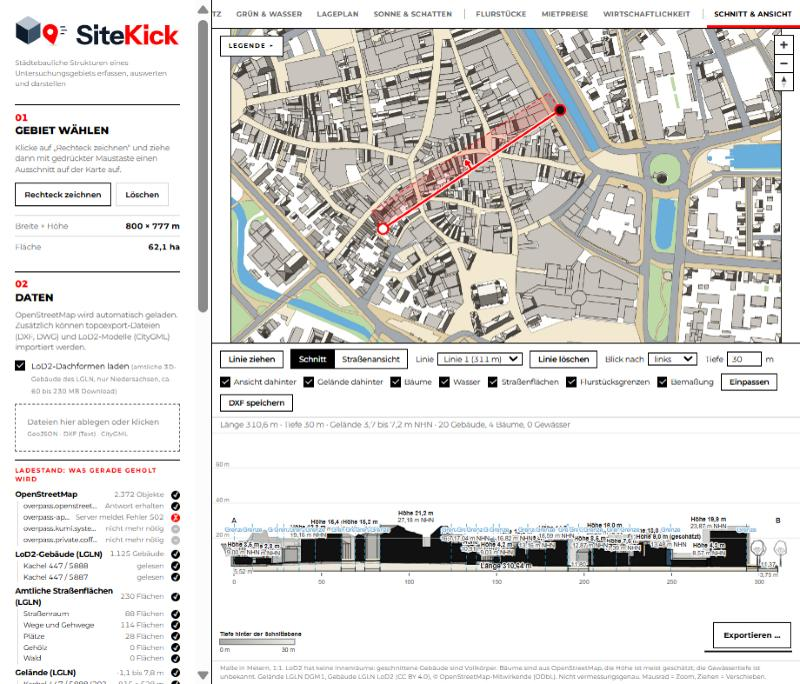
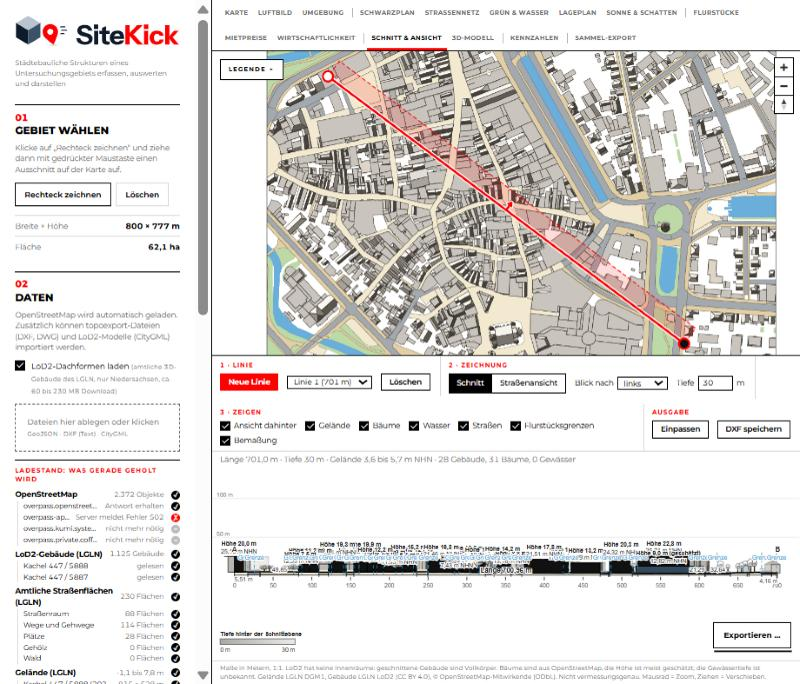
Schnitt & Ansicht: Leiste in Gruppen, Linie per Klick, roter Knopf, Tiefe durch Ziehen; 3D-Haken Schatten

diff --git a/schnitt.js b/schnitt.js
@@ -34,12 +34,13 @@ const sEl = {
   dahinter: document.getElementById("schnitt-dahinter"), fit: document.getElementById("schnitt-fit"), dxf: document.getElementById("schnitt-dxf"),
   baeume: document.getElementById("schnitt-baeume"), wasser: document.getElementById("schnitt-wasser"), gelaende: document.getElementById("schnitt-gelaende")
 };
-const SCHNITT_EBENEN = ["schnitt-andere", "schnitt-tiefe", "schnitt-tiefe-rand", "schnitt-rand", "schnitt-linie", "schnitt-punkte"];
+const SCHNITT_EBENEN = ["schnitt-andere", "schnitt-tiefe", "schnitt-tiefe-rand", "schnitt-rand", "schnitt-linie", "schnitt-punkte", "schnitt-griff"];
 let schnittLinie = null;          // { a: [Ost, Nord], b: [Ost, Nord] } in UTM 32
 let schnittListe = [];            // alle gezogenen Linien: { name, a, b, seite, tiefe }
 let schnittAktiv = -1;            // Index der Linie in schnittListe, die gerade gezeichnet wird
 let schnittZeichnen = false;
 let schnittStart = null;
+let schnittKlickModus = false;    // Startpunkt per Klick gesetzt, wartet auf den zweiten Klick
 let schnittModus = "schnitt";     // "schnitt" oder "ansicht"
 let schnittDaten = null;          // Ergebnis der Rechnung (siehe rechneSchnitt)
 let schnittStand = "";
@@ -65,6 +66,9 @@ function legeSchnittEbenenAn() {
     filter: ["in", ["get", "teil"], ["literal", ["linie", "pfeil"]]], paint: { "line-color": FARBE.flst.auswahl, "line-width": 3.5 } }, "gebiet-flaeche");
   map.addLayer({ id: "schnitt-punkte", type: "circle", source: "schnitt", layout: unsichtbar, filter: ["==", ["get", "teil"], "ende"],
     paint: { "circle-radius": 7, "circle-color": ["case", ["==", ["get", "ende"], "a"], "#ffffff", "#111111"], "circle-stroke-color": FARBE.flst.auswahl, "circle-stroke-width": 3 } }, "gebiet-flaeche");
+  // Griff in der Mitte der gestrichelten Kante: daran ziehen = Tiefe ändern
+  map.addLayer({ id: "schnitt-griff", type: "circle", source: "schnitt", layout: unsichtbar, filter: ["==", ["get", "teil"], "griff"],
+    paint: { "circle-radius": 8, "circle-color": "#ffffff", "circle-stroke-color": FARBE.flst.auswahl, "circle-stroke-width": 3 } }, "gebiet-flaeche");
 }
 
 // Koordinaten der Linie: s = Abstand entlang der Linie, d = Abstand quer dazu (positiv in Blickrichtung)
@@ -95,6 +99,7 @@ function setzeSchnittLinieKarte(linie) {
     feat("pfeil", { type: "LineString", coordinates: [ll(mx, my), ll(tx, ty)] }),
     feat("pfeil", { type: "LineString", coordinates: kopf(2.8) }),
     feat("pfeil", { type: "LineString", coordinates: kopf(-2.8) }),
+    feat("griff", { type: "Point", coordinates: bandPunkt([mx, my]) }),
     feat("ende", { type: "Point", coordinates: ll(...linie.a) }, { ende: "a" }),
     feat("ende", { type: "Point", coordinates: ll(...linie.b) }, { ende: "b" }),
     ...schnittListe.filter((l, i) => i !== schnittAktiv).map((l) => feat("andere", { type: "LineString", coordinates: [ll(...l.a), ll(...l.b)] }))
@@ -109,29 +114,40 @@ function schnittKlemmen(lngLat) {
 
 function schnittModusZeichnen(an) {
   schnittZeichnen = an;
-  schnittStart = null;
+  schnittStart = null; schnittKlickModus = false;
   document.body.classList.toggle("is-drawing", an);
   if (an) { map.dragPan.disable(); map.boxZoom.disable(); } else { map.dragPan.enable(); map.boxZoom.enable(); }
   sEl.neu.classList.toggle("is-active", an);
-  sEl.neu.textContent = an ? "Abbrechen (Esc)" : schnittLinie ? "Neue Linie ziehen" : "Linie ziehen";
-  if (an) schnittHinweisSetzen("Drücke auf der Karte die Maustaste, ziehe die Linie und lass los. Sie liegt im gewählten Rechteck.");
+  sEl.neu.textContent = an ? "Abbrechen (Esc)" : schnittLinie ? "Neue Linie" : "Linie ziehen";
+  if (!an && /^(Klicke auf der Karte den|Startpunkt gesetzt)/.test(schnittHinweis.textContent)) schnittHinweisSetzen("");
+  if (an) schnittHinweisSetzen("Klicke auf der Karte den Startpunkt, dann den Endpunkt. Ziehen mit gedrückter Maustaste geht auch. Esc bricht ab.");
 }
 
 function schnittBeginne(e) {
   if (!schnittZeichnen || aktuelleAnsicht !== "schnitt") return;
   e.preventDefault();
+  if (schnittKlickModus && schnittStart) { schnittFertig(utmWandler.forward(schnittKlemmen(e.lngLat))); return; }   // zweiter Klick = Endpunkt
   schnittStart = utmWandler.forward(schnittKlemmen(e.lngLat));
 }
 function schnittZiehe(e) {
   if (!schnittZeichnen || !schnittStart) return;
   setzeSchnittLinieKarte({ a: schnittStart, b: utmWandler.forward(schnittKlemmen(e.lngLat)) });
 }
+// Maustaste loslassen: weit gezogen = fertig, nur geklickt = Startpunkt bleibt, der nächste Klick setzt den Endpunkt
 function schnittBeende(e) {
-  if (!schnittZeichnen || !schnittStart) return;
+  if (!schnittZeichnen || !schnittStart || schnittKlickModus) return;
   const ende = utmWandler.forward(schnittKlemmen(e.lngLat));
+  if (Math.hypot(ende[0] - schnittStart[0], ende[1] - schnittStart[1]) < 5) {
+    schnittKlickModus = true;
+    schnittHinweisSetzen("Startpunkt gesetzt. Klicke jetzt den Endpunkt der Linie. Esc bricht ab.");
+    return;
+  }
+  schnittFertig(ende);
+}
+function schnittFertig(ende) {
   const a = schnittStart;
-  schnittStart = null;
-  if (Math.hypot(ende[0] - a[0], ende[1] - a[1]) < 5) { setzeSchnittLinieKarte(schnittLinie); return; }   // zu kurz: ignorieren
+  schnittStart = null; schnittKlickModus = false;
+  if (!a || Math.hypot(ende[0] - a[0], ende[1] - a[1]) < 5) { setzeSchnittLinieKarte(schnittLinie); return; }   // zu kurz: ignorieren
   schnittLinie = { a, b: ende };
   schnittListe.push({ name: `Linie ${schnittListe.length + 1}`, a, b: ende, seite: Number(sEl.seite.value), tiefe: Number(sEl.tiefe.value) || 30 });
   schnittAktiv = schnittListe.length - 1;
@@ -149,6 +165,55 @@ map.on("touchend", schnittBeende);
 document.addEventListener("keydown", (e) => {
   if (e.key === "Escape" && schnittZeichnen) { schnittModusZeichnen(false); setzeSchnittLinieKarte(schnittLinie); }
 });
+
+// Tiefe durch Ziehen an der gestrichelten Kante: Griff oder Kante anfassen, die Kante folgt der Maus
+let schnittTiefeZiehen = false;
+let schnittCursorGesetzt = false;
+function schnittKanteGetroffen(punkt) {   // punkt = Bildschirmpunkt { x, y }
+  if (!schnittLinie || aktuelleAnsicht !== "schnitt" || schnittZeichnen) return false;
+  const K = schnittK(schnittLinie, Number(sEl.seite.value));
+  const tiefe = Math.max(5, Math.min(300, Number(sEl.tiefe.value) || 30));
+  const vx = K.nx * K.seite, vy = K.ny * K.seite;
+  const bs = (pt) => map.project(utmWandler.inverse([pt[0] + vx * tiefe, pt[1] + vy * tiefe]));
+  const p0 = bs(schnittLinie.a), p1 = bs(schnittLinie.b);
+  const dx = p1.x - p0.x, dy = p1.y - p0.y, l2 = dx * dx + dy * dy || 1;
+  const t = Math.max(0, Math.min(1, ((punkt.x - p0.x) * dx + (punkt.y - p0.y) * dy) / l2));
+  return Math.hypot(punkt.x - (p0.x + t * dx), punkt.y - (p0.y + t * dy)) <= 10;
+}
+function schnittTiefeBeginne(e) {
+  if (!schnittKanteGetroffen(e.point)) return;
+  e.preventDefault();
+  schnittTiefeZiehen = true;
+  map.dragPan.disable();
+}
+function schnittTiefeZiehe(e) {
+  if (!schnittTiefeZiehen) {
+    if (aktuelleAnsicht === "schnitt" && e.point) {
+      const treffer = schnittKanteGetroffen(e.point);
+      if (treffer) { map.getCanvas().style.cursor = "ns-resize"; schnittCursorGesetzt = true; }
+      else if (schnittCursorGesetzt) { map.getCanvas().style.cursor = ""; schnittCursorGesetzt = false; }
+    }
+    return;
+  }
+  const K = schnittK(schnittLinie, Number(sEl.seite.value));
+  const m = utmWandler.forward([e.lngLat.lng, e.lngLat.lat]);
+  const d = (m[0] - schnittLinie.a[0]) * K.nx * K.seite + (m[1] - schnittLinie.a[1]) * K.ny * K.seite;   // Abstand quer zur Linie in Blickrichtung
+  const tiefe = Math.max(5, Math.min(300, Math.round(d)));
+  sEl.tiefe.value = String(tiefe);
+  setzeSchnittLinieKarte(schnittLinie);
+}
+function schnittTiefeEnde() {
+  if (!schnittTiefeZiehen) return;
+  schnittTiefeZiehen = false;
+  map.dragPan.enable();
+  sEl.tiefe.dispatchEvent(new Event("change"));   // speichert die Tiefe an der Linie und rechnet neu
+}
+map.on("mousedown", schnittTiefeBeginne);
+map.on("touchstart", (e) => { if (e.points.length === 1) schnittTiefeBeginne(e); });
+map.on("mousemove", schnittTiefeZiehe);
+map.on("touchmove", schnittTiefeZiehe);
+window.addEventListener("mouseup", schnittTiefeEnde);
+window.addEventListener("touchend", schnittTiefeEnde);
 
 // ---------- 2. Gebäude als 3D-Flächen sammeln ----------
 // Jedes Gebäude: { art, boden, flaechen: [Ring ...] (Dächer), waende: [Ring ...] }, Ring = Liste [x, y, z] (UTM, Höhe über NHN), nicht geschlossen
@@ -841,7 +906,7 @@ function schnittNeuRechnen() {
   if (!schnittDaten) {
     schnittSvg.innerHTML = "";
     schnittInfo.textContent = "";
-    schnittHinweisSetzen(datenVorhanden ? "Ziehe eine Linie auf der Karte, dann entsteht hier die Zeichnung." : "Klicke zuerst links auf „Analysieren“, dann kannst du eine Linie ziehen.");
+    schnittHinweisSetzen(datenVorhanden ? "Klicke auf der Karte Start- und Endpunkt, dann entsteht hier die Zeichnung." : "Klicke zuerst links auf „Analysieren“, dann kannst du eine Linie ziehen.");
     return;
   }
   const D = schnittDaten;
@@ -869,7 +934,8 @@ function aktualisiereSchnitt() {
   if (!aktiv) { if (schnittZeichnen) schnittModusZeichnen(false); return; }
   sEl.neu.disabled = !datenVorhanden;
   if (!schnittLinie) {
-    schnittHinweisSetzen(datenVorhanden ? "Klicke auf „Linie ziehen“ und ziehe die Linie über die Karte (z. B. quer durch eine Straße)." : "Klicke zuerst links auf „Analysieren“, dann kannst du eine Linie ziehen.");
+    if (datenVorhanden) { if (!schnittZeichnen) schnittModusZeichnen(true); }   // gleich zeichnen: Start- und Endpunkt anklicken
+    else schnittHinweisSetzen("Klicke zuerst links auf „Analysieren“, dann kannst du eine Linie ziehen.");
     return;
   }
   const stand = [lod2Gebaeude.length, osmFeatures.length, alkisFlaechen.length, flurstuecke.length, gelaende ? gelaende.min : -1].join("|");
@@ -896,7 +962,7 @@ document.getElementById("schnitt-liste").addEventListener("change", (e) => {
 document.getElementById("schnitt-loeschen").addEventListener("click", () => {
   if (schnittAktiv < 0) return;
   schnittListe.splice(schnittAktiv, 1);
-  if (!schnittListe.length) { schnittAktiv = -1; schnittLinie = null; schnittDaten = null; schnittSvg.innerHTML = ""; schnittInfo.textContent = ""; setzeSchnittLinieKarte(null); schnittListeAnzeigen(); sEl.neu.textContent = "Linie ziehen"; schnittHinweisSetzen("Ziehe eine Linie auf der Karte, dann entsteht hier die Zeichnung."); return; }
+  if (!schnittListe.length) { schnittAktiv = -1; schnittLinie = null; schnittDaten = null; schnittSvg.innerHTML = ""; schnittInfo.textContent = ""; setzeSchnittLinieKarte(null); schnittListeAnzeigen(); sEl.neu.textContent = "Linie ziehen"; schnittHinweisSetzen(""); schnittModusZeichnen(true); return; }
   schnittAktiv = Math.min(schnittAktiv, schnittListe.length - 1);
   const l = schnittListe[schnittAktiv];
   schnittLinie = { a: l.a, b: l.b };

diff --git a/index.html b/index.html
@@ -27,7 +27,7 @@
   <!-- Rechnet zwischen Längen/Breitengrad und den UTM-Koordinaten der amtlichen Daten um -->
   <script src="https://cdn.jsdelivr.net/npm/proj4@2.12.1/dist/proj4.js"></script>
 
-  <link rel="stylesheet" href="style.css?v=7315b">
+  <link rel="stylesheet" href="style.css?v=181118d">
 </head>
 <body>
   <div class="app">
@@ -185,28 +185,48 @@
           <!-- Nur im Reiter "Schnitt": Linie ziehen, Zeichnung von Schnitt oder Straßenansicht, DXF-Export (siehe schnitt.js) -->
           <div class="schnitt-panel" id="schnitt-panel" hidden>
             <div class="schnitt-leiste">
-              <button type="button" class="btn schnitt-neu" id="schnitt-linie-neu">Linie ziehen</button>
-              <span class="schnitt-umschalter" id="schnitt-umschalter">
-                <button type="button" data-modus="schnitt" class="is-active">Schnitt</button><button type="button" data-modus="ansicht">Straßenansicht</button>
-              </span>
-              <label id="schnitt-liste-feld" hidden>Linie <select id="schnitt-liste"></select></label>
-              <button type="button" class="btn" id="schnitt-loeschen" hidden>Linie löschen</button>
-              <label>Blick nach <select id="schnitt-seite"><option value="1">links</option><option value="-1">rechts</option></select></label>
-              <label>Tiefe <input type="number" id="schnitt-tiefe" value="30" min="5" max="300" step="5"> m</label>
-              <label><input type="checkbox" id="schnitt-dahinter" checked> Ansicht dahinter</label>
-              <label><input type="checkbox" id="schnitt-gelaende" checked> Gelände dahinter</label>
-              <label><input type="checkbox" id="schnitt-baeume" checked> Bäume</label>
-              <label><input type="checkbox" id="schnitt-wasser" checked> Wasser</label>
-              <label><input type="checkbox" id="schnitt-strasse" checked> Straßenflächen</label>
-              <label><input type="checkbox" id="schnitt-grenzen" checked> Flurstücksgrenzen</label>
-              <label><input type="checkbox" id="schnitt-mass" checked> Bemaßung</label>
-              <button type="button" class="btn" id="schnitt-fit">Einpassen</button>
-              <button type="button" class="btn" id="schnitt-dxf">DXF speichern</button>
+              <div class="sg">
+                <span class="sg-t">1 · Linie</span>
+                <div class="sg-i">
+                  <button type="button" class="btn schnitt-neu" id="schnitt-linie-neu">Linie ziehen</button>
+                  <label id="schnitt-liste-feld" hidden><select id="schnitt-liste" aria-label="Linie wählen"></select></label>
+                  <button type="button" class="btn" id="schnitt-loeschen" hidden>Löschen</button>
+                </div>
+              </div>
+              <div class="sg">
+                <span class="sg-t">2 · Zeichnung</span>
+                <div class="sg-i">
+                  <span class="schnitt-umschalter" id="schnitt-umschalter">
+                    <button type="button" data-modus="schnitt" class="is-active">Schnitt</button><button type="button" data-modus="ansicht">Straßenansicht</button>
+                  </span>
+                  <label>Blick nach <select id="schnitt-seite"><option value="1">links</option><option value="-1">rechts</option></select></label>
+                  <label>Tiefe <input type="number" id="schnitt-tiefe" value="30" min="5" max="300" step="5"> m</label>
+                </div>
+              </div>
+              <div class="sg sg-breit">
+                <span class="sg-t">3 · Zeigen</span>
+                <div class="sg-i">
+                  <label><input type="checkbox" id="schnitt-dahinter" checked> Ansicht dahinter</label>
+                  <label><input type="checkbox" id="schnitt-gelaende" checked> Gelände</label>
+                  <label><input type="checkbox" id="schnitt-baeume" checked> Bäume</label>
+                  <label><input type="checkbox" id="schnitt-wasser" checked> Wasser</label>
+                  <label><input type="checkbox" id="schnitt-strasse" checked> Straßen</label>
+                  <label><input type="checkbox" id="schnitt-grenzen" checked> Flurstücksgrenzen</label>
+                  <label><input type="checkbox" id="schnitt-mass" checked> Bemaßung</label>
+                </div>
+              </div>
+              <div class="sg sg-rechts">
+                <span class="sg-t">Ausgabe</span>
+                <div class="sg-i">
+                  <button type="button" class="btn" id="schnitt-fit">Einpassen</button>
+                  <button type="button" class="btn" id="schnitt-dxf">DXF speichern</button>
+                </div>
+              </div>
             </div>
             <div class="schnitt-info" id="schnitt-info"></div>
             <div class="schnitt-hinweis" id="schnitt-hinweis"></div>
             <svg id="schnitt-svg" xmlns="http://www.w3.org/2000/svg" preserveAspectRatio="xMidYMid meet" role="img" aria-label="Schnitt oder Straßenansicht"></svg>
-            <p class="schnitt-klein">Maße in Metern, 1:1. LoD2 hat keine Innenräume: geschnittene Gebäude sind Vollkörper. Bäume sind aus OpenStreetMap, die Höhe ist meist geschätzt; die Gewässertiefe ist unbekannt. Gelände LGLN DGM1, Gebäude LGLN LoD2 (CC BY 4.0), © OpenStreetMap-Mitwirkende (ODbL). Nicht vermessungsgenau. Mausrad = Zoom, Ziehen = Verschieben.</p>
+            <p class="schnitt-klein">Maße in Metern, 1:1. LoD2 hat keine Innenräume: geschnittene Gebäude sind Vollkörper. Bäume sind aus OpenStreetMap, die Höhe ist meist geschätzt; die Gewässertiefe ist unbekannt. Gelände LGLN DGM1, Gebäude LGLN LoD2 (CC BY 4.0), © OpenStreetMap-Mitwirkende (ODbL). Nicht vermessungsgenau. Mausrad = Zoom, Ziehen = Verschieben. Tiefe: an der gestrichelten Kante auf der Karte ziehen.</p>
           </div>
           <!-- Nur im Reiter "Luftbild": Regler und Überlagerungen (siehe luftbild.js) -->
           <div class="flst-info" id="luft-info" hidden>
@@ -273,7 +293,7 @@
             <button class="btn" id="d3-reset" type="button">Ansicht zurücksetzen</button>
             <button class="btn" id="d3-oben" type="button">Draufsicht</button>
             <label class="d3-check"><input type="checkbox" id="d3-baeume" checked> Bäume</label>
-            <label class="d3-check" title="Schatten nach Datum und Uhrzeit, gleiche Einstellung wie im Reiter Sonne &amp; Schatten"><input type="checkbox" id="d3-sonne"> Sonne</label>
+            <label class="d3-check" title="Schatten nach Datum und Uhrzeit, gleiche Einstellung wie im Reiter Sonne &amp; Schatten"><input type="checkbox" id="d3-sonne"> Schatten</label>
             <span class="d3-check" id="d3-sonne-feld" hidden>
               <input type="date" id="d3-datum" value="2026-06-21" aria-label="Datum">
               <input type="range" id="d3-zeit" min="0" max="1430" step="10" value="780" aria-label="Uhrzeit"> <span id="d3-zeit-wert">13:00</span>
@@ -381,24 +401,24 @@
   <script src="https://cdn.jsdelivr.net/npm/jspdf@2.5.1/dist/jspdf.umd.min.js"></script>
   <!-- Packt die Dateien des Sammel-Exports zu einer ZIP-Datei -->
   <script src="https://cdn.jsdelivr.net/npm/jszip@3.10.1/dist/jszip.min.js"></script>
-  <script src="app.js?v=7315b"></script>
-  <script src="ladeleiste.js?v=7315b"></script>
-  <script src="gelaende.js?v=7315b"></script>
-  <script src="flurstuecke.js?v=7315b"></script>
-  <script src="mieten.js?v=7315b"></script>
-  <script src="luftbild.js?v=7315b"></script>
-  <script src="infos.js?v=7315b"></script>
-  <script src="wirtschaft.js?v=7315b"></script>
-  <script src="schnitt.js?v=7315b"></script>
-  <script src="sonne.js?v=7315b"></script>
-  <script src="hoehe.js?v=7315b"></script>
-  <script src="erreichbar.js?v=7315b"></script>
-  <script src="import.js?v=7315b"></script>
-  <script src="projekt.js?v=7315b"></script>
-  <script src="export.js?v=7315b"></script>
-  <script src="sammelexport.js?v=7315b"></script>
-  <script src="ansicht3d.js?v=7315b"></script>
-  <script src="legende.js?v=7315b"></script>
-  <script src="hinweis.js?v=7315b"></script>
+  <script src="app.js?v=181118d"></script>
+  <script src="ladeleiste.js?v=181118d"></script>
+  <script src="gelaende.js?v=181118d"></script>
+  <script src="flurstuecke.js?v=181118d"></script>
+  <script src="mieten.js?v=181118d"></script>
+  <script src="luftbild.js?v=181118d"></script>
+  <script src="infos.js?v=181118d"></script>
+  <script src="wirtschaft.js?v=181118d"></script>
+  <script src="schnitt.js?v=181118d"></script>
+  <script src="sonne.js?v=181118d"></script>
+  <script src="hoehe.js?v=181118d"></script>
+  <script src="erreichbar.js?v=181118d"></script>
+  <script src="import.js?v=181118d"></script>
+  <script src="projekt.js?v=181118d"></script>
+  <script src="export.js?v=181118d"></script>
+  <script src="sammelexport.js?v=181118d"></script>
+  <script src="ansicht3d.js?v=181118d"></script>
+  <script src="legende.js?v=181118d"></script>
+  <script src="hinweis.js?v=181118d"></script>
 </body>
 </html>

diff --git a/style.css b/style.css
@@ -540,12 +540,20 @@ input[type="number"]:focus, input[type="text"]:focus, input[type="date"]:focus, 
 .schnitt-panel { position: absolute; left: 0; right: 0; bottom: 0; height: 52%; min-height: 300px; max-height: 100%; z-index: 4; display: flex; flex-direction: column;
   background: var(--paper); border-top: 2px solid var(--ink); font-size: 12px; overflow: hidden; animation: ein-blenden 0.15s linear; }
 .schnitt-panel[hidden] { display: none; }
-.schnitt-leiste { display: flex; flex-wrap: wrap; align-items: center; gap: 6px 12px; padding: 8px 12px; border-bottom: 1px solid var(--line-soft); }
+.schnitt-leiste { display: flex; flex-wrap: wrap; align-items: flex-start; gap: 8px 0; padding: 0; border-bottom: 1px solid var(--line-soft); }
+.schnitt-leiste .sg { display: flex; flex-direction: column; gap: 5px; padding: 8px 16px 8px 12px; border-right: 1px solid var(--line-soft); }
+.schnitt-leiste .sg-breit { flex: 1 1 280px; }
+.schnitt-leiste .sg-rechts { margin-left: auto; border-right: 0; }
+.schnitt-leiste .sg-t { font-size: 10px; font-weight: 700; letter-spacing: 0.12em; text-transform: uppercase; color: var(--accent); }
+.schnitt-leiste .sg-i { display: flex; flex-wrap: wrap; align-items: center; gap: 6px 14px; }
 .schnitt-leiste label { display: inline-flex; align-items: center; gap: 6px; }
 .schnitt-leiste input[type="number"] { width: 56px; font-family: var(--mono); letter-spacing: 0; padding: 2px 6px; }
 .schnitt-leiste select { padding: 2px 6px; }
 .schnitt-leiste .btn { padding: 4px 12px; font-size: 12px; }
-.schnitt-leiste .btn.is-active { background: var(--accent); color: #fff; border-color: var(--accent); }
+/* Knopf "Linie ziehen / Neue Linie": rot gefüllt, fällt sofort auf; beim Zeichnen schwarz ("Abbrechen") */
+.schnitt-leiste .btn.schnitt-neu { background: var(--accent); color: #fff; border-color: var(--accent); font-weight: 700; }
+.schnitt-leiste .btn.schnitt-neu:hover { background: var(--accent); filter: brightness(0.88); }
+.schnitt-leiste .btn.schnitt-neu.is-active { background: var(--ink); color: var(--paper); border-color: var(--ink); filter: none; }
 .schnitt-info { padding: 3px 12px; font-family: var(--mono); letter-spacing: 0; color: var(--ink-soft); }
 .schnitt-hinweis { padding: 2px 12px; color: var(--accent); }
 .schnitt-hinweis[hidden] { display: none; }

diff --git a/PLAN.md b/PLAN.md
@@ -878,7 +878,7 @@ Rhythmus pro Feature: **neue Sitzung → ein Feature bauen → testen und speich
   Alle Datendienste erlauben den Zugriff (CORS). **Nicht geprüft:** Schnitt und DXF auf der Live-Seite, Handy, Firefox/Safari.
   Hinweis: `main` enthält jetzt die Version von feature-osm-2d-plaene (zusammengeführt am 17.11.2026); `entwicklung` ist die zweite Version des Partners und unverändert.
 - [x] **Sonne & Schatten** (Branch `feature-osm-2d-plaene`, nur lokal, **nicht committet**; Wunsch der Nutzerin / des Nutzers: Schattenplan, Besonnungsdauer, 3D mit Schatten, Bäume immer mit): Neue Datei `sonne.js`, neuer Reiter
-  „Sonne & Schatten“ (nach Lageplan), Schalter „Sonne“ mit Datum und Uhrzeit im 3D-Modell (`ansicht3d.js`, gleiche Einstellung `sonneZustand`).
+  „Sonne & Schatten“ (nach Lageplan), Schalter „Sonne“ (jetzt „Schatten“) mit Datum und Uhrzeit im 3D-Modell (`ansicht3d.js`, gleiche Einstellung `sonneZustand`).
   **Rechnung:** Höhenraster (nach Rückmeldung „pixelig“ feiner: Schatten 0,5 m, Besonnungsdauer 1 m, einstellbar 2 / 1 / 0,5 m; beim Ziehen des Reglers 2 m, sanfte Skalierung im Bild; Strahlschritt mindestens 1 m, ab 120 m doppelt; Rechenzeit 0,5 m Schatten ca. 1 s, Besonnungsdauer 21.6. mit 1 m ca. 12 s) (Dächer aus LoD2 als Ebenen je Fläche, Ersatzblöcke aus OSM, Baumkronen als Ellipsoid/Kegel mit Unterkante, Gelände DGM1), Sonnenstand nach NOAA-Formel (geprüft: 21.6. Mittag in Oldenburg
   60,3 Grad, 21.12. etwa 13 Grad), Zeit MEZ/MESZ nach EU-Sommerzeitregel, je Zelle ein Strahl zur Sonne (bis 500 m, ab 1 Grad Sonnenhöhe). Besonnungsdauer alle 15 Minuten.
   **Getestet** (Oldenburg Innenstadt, 62 ha, LoD2): Schattenplan live per Regler; Besonnungsdauer 21.6. 16,3 h möglich, Mittel 8,2 h, Rechenzeit 2,3 s; 21.12. 7,0 h möglich, Mittel 1,1 h (0,8 s); 21.3. 11,8 h möglich, Mittel 4,6 h;
@@ -915,6 +915,7 @@ Rhythmus pro Feature: **neue Sitzung → ein Feature bauen → testen und speich
 - [x] **Oberfläche im Swiss Style** (18.11.2026, Wunsch der Tutor*innen „slay but make it pretty“, direkt ersetzt statt Branch): `style.css` komplett neu. Montserrat (selbst gehostet, `fonts/`, OFL), plakativ nach einer Referenz der Studierenden: riesige Überschriften in Versalien (Gewicht 900), rote gesperrte Versal-Beschriftungen, Reiter in Versalien, keine Schatten und kein Glas, 2-px-Linien über Abschnitten, Reiter als Text mit orangem Strich, Knöpfe als Rahmen (Hover schwarz, Drücken orange), quadratische Auswahlfelder statt Schalter, Zahlen mit tabellarischen Ziffern, Großbuchstaben nur für kleine Beschriftungen. Eine Signalfarbe (Logo-Orange). Dunkelmodus Weiß auf Schwarz. Start- und Export-Fenster ohne Rundung und Federn (nur Überblenden). **Getestet:** Hell und Dunkel, Startfenster, Karte/Lageplan, Sonne, Schnitt, Kennzahlen, Sammel-Export. **Nicht getestet:** Handy-Ansicht, Wirtschaftlichkeits-Panel und Export-Fenster im neuen Stil im Dunkelmodus. Die frühere Apple-Variante steht im Git-Verlauf (Commit a0280ac).
 - [x] **Rot, größeres Logo, Startfenster überarbeitet** (18.11.2026): Akzentfarbe jetzt reines Rot `#FF0000` (dunkel `#FF2A2A`) wie in der Referenz, auch auf der Karte (Gebietsrahmen, Auswahl, Kreise, Schnittlinie). Das Logo wurde in diesem Rot neu eingefärbt (SVG, Favicon, Handy-Symbole, PNG-Varianten; das Original-Paket liegt unverändert als ZIP im Hauptordner). Logo in der Seitenleiste auf die volle Breite (max. 292 px). Startfenster zentriert (Logo, Überschrift, Texte, „Powered by“, Spaß-Logo, Knopf auf einer Mittelachse), kompakter. Alle Screenshots neu.
 - [x] **Reiterleiste und Schwarzplan angepasst** (18.11.2026, Rückmeldung der Nutzerin/des Nutzers): Die Reiterleiste bricht in mehrere Zeilen um (`flex-wrap`), statt seitlich zu scrollen, und ist kompakter (10 px, bei 1920 px eine Zeile, bei 1366 px zwei, bei 1024 px drei); getestet bei 736, 1024, 1100, 1366 und 1920 px Breite: alle Reiter sichtbar. Im Schwarzplan sind Nebengebäude nicht mehr grau, sondern schwarz wie alle Gebäude (auch in „Nach Höhe“, Legende und Export; im DXF bleibt der Layer `NEBENGEBAEUDE` getrennt). Lageplan, Schnitt und Sonne unverändert.
+- [x] **Schnitt & Ansicht übersichtlicher, Linie per Klick; 3D-Haken „Schatten“** (18.11.2026, Wunsch der Nutzerin/des Nutzers): Leiste im Reiter in vier Gruppen mit roten Überschriften (1 Linie, 2 Zeichnung, 3 Zeigen, Ausgabe; `index.html`, `.schnitt-leiste .sg` in `style.css`). Das Zeichnen ist beim Öffnen des Reiters gleich an (sobald Daten da sind): erster Klick = Startpunkt, zweiter Klick = Endpunkt, mit Gummiband-Vorschau; Ziehen mit gedrückter Maustaste geht weiter, Esc bricht ab, „Neue Linie“ startet wieder (`schnitt.js`: `schnittKlickModus`, `schnittFertig`). Im Reiter 3D-Modell heißt der Haken jetzt „Schatten“ statt „Sonne“. Getestet (Oldenburg, Browser): zwei Klicks, Neue Linie, Esc, Löschen, 3D-Haken; Bilder `schnitt.jpg`, `oberflaeche-schnitt.jpg`, `3d-schatten.jpg` neu. **Tiefe durch Ziehen** an der gestrichelten Kante (weißer Griff in der Mitte, Ebene `schnitt-griff`, `schnittTiefe*` in `schnitt.js`; 5 bis 300 m, Zeichnung rechnet beim Loslassen neu; Test: 30 → 57 m per Ziehen). Knopf „Linie ziehen“/„Neue Linie“ rot gefüllt (beim Zeichnen schwarz „Abbrechen“). Nicht getestet: Handy (Berühren), andere Browser.
 - [ ] **Noch offen:** Poster, Test der DXF-Dateien in Allplan/ArchiCAD (macht die Nutzerin / der Nutzer), Abstimmung der zwei Versionen (`entwicklung`).
 - [ ] Hinweis: Die Hintergrundkarte kommt von den OSM-Kartenservern (tile.openstreetmap.org). Für ein
   Studienprojekt ist das in Ordnung. Bei vielen Nutzern müsste man einen anderen Kartendienst nehmen.

diff --git a/README.md b/README.md
@@ -180,10 +180,10 @@ Standardwerte u. a. aus den Landesgrundstücksmarktdaten Niedersachsen, der Immo
 
 ### 4. Darstellung
 
-**Schnitt & Ansicht** – Linie auf der Karte ziehen, dann entsteht ein **senkrechter Schnitt** durch Gelände (DGM1), Gebäude (LoD2), Straßenflächen,
-Flurstücksgrenzen, Bäume und Wasser, mit Maßketten und Gebäudehöhen. Die **Tiefe** (wie weit man hinter die Linie schaut) ist als Band auf der Karte
+**Schnitt & Ansicht** – Beim Öffnen des Reiters ist das Zeichnen gleich an: **Startpunkt und Endpunkt auf der Karte anklicken** (Ziehen mit gedrückter Maustaste geht auch, Esc bricht ab). Dann entsteht ein **senkrechter Schnitt** durch Gelände (DGM1), Gebäude (LoD2), Straßenflächen,
+Flurstücksgrenzen, Bäume und Wasser, mit Maßketten und Gebäudehöhen. Die **Tiefe** (wie weit man hinter die Linie schaut) lässt sich im Feld „Tiefe“ eingeben oder **an der gestrichelten Kante auf der Karte ziehen** (weißer Griff in der Mitte). Sie ist als Band auf der Karte
 und als Skala in der Zeichnung zu sehen. „Blick nach links/rechts“ wechselt die Seite. Geschnittene Gebäude erscheinen schwarz als Vollkörper (Poché).
-Es lassen sich **mehrere Linien** ziehen und über das Feld „Linie“ wechseln; die anderen Linien stehen grau gestrichelt auf der Karte.
+Die Leiste unter der Karte ist in drei Schritte geordnet (1 Linie, 2 Zeichnung, 3 Zeigen). Mit „Neue Linie“ lassen sich **mehrere Linien** ziehen, über das Feld „Linie“ wechselt man; die anderen Linien stehen grau gestrichelt auf der Karte.
 
 ![Schnitt durch Gelände und Gebäude](docs/bilder/schnitt.jpg)
 
@@ -192,7 +192,7 @@ Mit dem Schalter **Straßenansicht** sieht man stattdessen die Gebäudefassaden 
 ![Straßenansicht](docs/bilder/strassenansicht.jpg)
 
 **3D-Modell** – Gebäude mit echten Dachformen (LoD2), Gelände mit Höhenlinien, Bäume. Drehen mit der Maus, Draufsicht, Überhöhung, Bild speichern.
-Mit dem Haken **„Sonne“** werfen alle Gebäude und Bäume Schatten nach Datum und Uhrzeit (gleiche Einstellung wie im Reiter „Sonne & Schatten“).
+Mit dem Haken **„Schatten“** werfen alle Gebäude und Bäume Schatten nach Datum und Uhrzeit (gleiche Einstellung wie im Reiter „Sonne & Schatten“).
 
 ![3D-Modell](docs/bilder/3d-modell.jpg)
 ![3D-Modell mit Schatten, 21. März, 15 Uhr](docs/bilder/3d-schatten.jpg)
